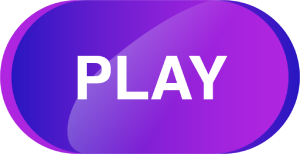
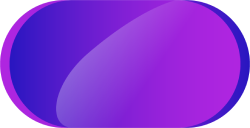
added title image and new font

diff --git a/gameplay/countdown.math.js b/gameplay/countdown.math.js
@@ -1,4 +1,4 @@
-import * as logic from "../logic/countdown.math.logic.js"
+import * as logic from '../logic/countdown.math.logic.js'
 
 // UPDATE GAME PLAY
 function generateMathProblem() {
@@ -7,20 +7,20 @@ function generateMathProblem() {
 
     let results = logic.getResults(valuesProblem, this.gamePlay.dificulty)
 
-    this.mathProblemTxt.setText(valuesProblem.value1 + valuesProblem.operator.symbol + valuesProblem.value2 + "= ?")
+    this.mathProblemTxt.setText(valuesProblem.value1 + valuesProblem.operator.symbol + valuesProblem.value2 + '= ?')
 
     const solutionRandomBtnIndex = Phaser.Math.Between(1, 4)
     let index = 0
     this.resultTxtGroup.children.each(function (child) {
-        if (solutionRandomBtnIndex === parseInt(child.name.split("-")[1])) {
+        if (solutionRandomBtnIndex === parseInt(child.name.split('-')[1])) {
             child.setText(results.solution)
-            // console.log(results.solution, "s")
+            // console.log(results.solution, 's')
         } else {
             child.setText(results.otherResultList[index])
             // console.log(results.otherResultList[index])
             index++
         }
-        // console.log(index, "-")
+        // console.log(index, '-')
     })
 
     this.gamePlay.mathProblemExist = true
@@ -34,24 +34,24 @@ function chooseSolution(solution) {
         let currentScore = parseInt(localStorage.getItem('score')) || 0
         if (this.gamePlay.score > currentScore) {
             localStorage.setItem('score', this.gamePlay.score)
-            this.add.bitmapText(this.width / 2, (this.height / 2) + 90, "atarismooth", "New Max Score: " + this.gamePlay.score, 25, 1).setOrigin(.5)
+            this.add.text(this.width / 2, (this.height / 2) + 90, 'New Max Score: ' + this.gamePlay.score, { fontFamily: 'Open Sans', fontSize: '25px' }).setOrigin(.5)
         }
         return false
     }
 }
 
 function lose() {
-    this.messageGameTxt.setTint("0xff0000")
-    this.messageGameTxt.setText("You lose!")
+    this.messageGameTxt.setTint('0xff0000')
+    this.messageGameTxt.setText('You lose!')
     this.gamePlay.gameOver = true
     this.resultBtnGroup.setVisible(false)
     this.resultTxtGroup.setVisible(false)
-    let mathProblemTxt = this.mathProblemTxt.text.replace("?", "")
+    let mathProblemTxt = this.mathProblemTxt.text.replace('?', '')
     this.mathProblemTxt.setText(mathProblemTxt + this.gamePlay.data.solution)
     this.time.addEvent({
         delay: 1000,
         callback: () => {
-            this.reloadBtn = this.add.image(this.width / 2, (this.height / 2) + 220, "reload").setOrigin(.5).setInteractive({ cursor: "pointer" })
+            this.reloadBtn = this.add.image(this.width / 2, (this.height / 2) + 220, 'reload').setOrigin(.5).setInteractive({ cursor: 'pointer' })
             this.pointerUp(() => {
                 this.registry.destroy()
                 this.events.off()

diff --git a/scenes/game.js b/scenes/game.js
@@ -9,15 +9,8 @@ import { ruleOfThree } from '../utils/common.js'
 export default class Game extends Phaser.Scene {
 
     // Vars
-    width = null
-    height = null
     handlerScene = false
     sceneStopped = false
-    dificulty = null
-    resultBtnGroup = null
-    resultTxtGroup = null
-    messageGameTxt = null
-    mathProblemTxt = null
 
     constructor() {
         super({ key: 'game' })
@@ -61,10 +54,10 @@ export default class Game extends Phaser.Scene {
         this.add.image(width / 2, height / 2, "background2").setOrigin(.5)
         this.resultTxtGroup = this.add.group()
         this.resultBtnGroup = this.add.group()
-        this.messageGameTxt = this.add.bitmapText(width / 2, height / 2, 'atarismooth', 'GET READY!', 50).setOrigin(.5)
-        this.mathProblemTxt = this.add.bitmapText(width / 2, (height / 4) + 60, 'atarismooth', '', 50).setOrigin(.5)
-        this.add.bitmapText(width / 2, 30, 'atarismooth', 'Score', 25).setOrigin(.5)
-        this.scoreTxt = this.add.bitmapText(width / 2, 60, 'atarismooth', '0', 28).setOrigin(.5)
+        this.messageGameTxt = this.add.text(width / 2, height / 2, 'GET READY!', { fontFamily: 'Open Sans', fontSize: '50px' }).setOrigin(.5)
+        this.mathProblemTxt = this.add.text(width / 2, (height / 4) + 60, '', { fontFamily: 'Open Sans', fontSize: '50px' }).setOrigin(.5)
+        this.add.text(width / 2, 30, 'Score', { fontFamily: 'Open Sans', fontSize: '25px' }).setOrigin(.5)
+        this.scoreTxt = this.add.text(width / 2, 60, '0', { fontFamily: 'Open Sans', fontSize: '28px' }).setOrigin(.5)
 
         this.barWBase = 320
         this.barTs = this.add.tileSprite(width / 4, 150, this.barWBase, 56, 'bar-countdown').setOrigin(0)
@@ -92,7 +85,7 @@ export default class Game extends Phaser.Scene {
             pointerOver(resultBtn)
             this.resultBtnGroup.add(resultBtn)
 
-            let resultTxt = this.add.bitmapText(posX + posXplus + (i % 2 ? -30 : 30), posY - posYplus, 'atarismooth', '', 40).setOrigin(.5)
+            let resultTxt = this.add.text(posX + posXplus + (i % 2 ? -30 : 30), posY - posYplus, '', { fontFamily: 'Open Sans', fontSize: '40px' }).setOrigin(.5)
             resultTxt.name = 'resultTxt-' + (i + 1)
             resultTxt.setTint(stringToHex(constant.color.GAME))
             resultTxt.visible = false

diff --git a/scenes/menu.js b/scenes/menu.js
@@ -5,8 +5,6 @@ import { pointerUp, pointerOver } from "../utils/buttons.js"
 export default class Menu extends Phaser.Scene {
 
     // Vars
-    width = null
-    height = null
     handlerScene = false
     sceneStopped = false
 
@@ -36,11 +34,11 @@ export default class Menu extends Phaser.Scene {
         this.add.image(width / 2, height / 2, "background2").setOrigin(.5)
         this.add.image(width / 2, height / 2, "background3").setOrigin(.5).alpha = .2
         let currentScore = parseInt(localStorage.getItem('score')) || 0
-        this.add.bitmapText(this.width / 2, 20, "atarismooth", "Max Score : " + currentScore, 18, 1).setOrigin(.5)
+        this.add.text(this.width / 2, 20, "Max Score : " + currentScore, { fontFamily: 'Open Sans', fontSize: '18px' }).setOrigin(.5)
 
         this.dificultyBtnGrp = this.add.group()
         this.dificultyTxtGrp = this.add.group()
-        this.gameTitleTxt = this.add.bitmapText(width / 2, height / 5, "atarismooth", "Choose a math\nchallenge", 30, 1).setOrigin(.5)
+        this.gameTitleTxt = this.add.text(width / 2, height / 5, "Choose a math\nchallenge", { fontFamily: 'Open Sans', fontSize: '30px' }).setOrigin(.5)
         this.countDownGameBtn = this.add.image(width / 2, height / 2, "button-square").setOrigin(.5).setInteractive({ cursor: "pointer" })
         this.countDownGame = this.add.image(width / 2, height / 2, "numbers").setOrigin(.5)
         this.countDownGame.setTint(stringToHex(constant.color.MENU))
@@ -72,7 +70,7 @@ export default class Menu extends Phaser.Scene {
                     dificultyBtn.setScale(1, .8)
                 this.dificultyBtnGrp.add(dificultyBtn)
 
-                let dificultyTxt = this.add.bitmapText(this.width / 2, posY, "atarismooth", configDificultyButtonList[i].text, 40).setOrigin(.5)
+                let dificultyTxt = this.add.text(this.width / 2, posY, configDificultyButtonList[i].text, { fontFamily: 'Open Sans', fontSize: '40px' }).setOrigin(.5)
                 dificultyTxt.setTint(stringToHex(constant.color.MENU))
                 this.dificultyTxtGrp.add(dificultyTxt)
                 posY += 150

diff --git a/scenes/preload.js b/scenes/preload.js
@@ -14,6 +14,7 @@ export default class Preload extends Phaser.Scene {
     preload() {
         // Images
         this.load.image('logo', 'assets/images/logo.png')
+        this.load.image('game-logo', 'assets/images/game-logo.png')
         this.load.image('guide', 'assets/images/960x540-guide.png')
         this.load.image('button', 'assets/images/button.png')
         this.load.image('button1', 'assets/images/button1.png')
@@ -29,8 +30,6 @@ export default class Preload extends Phaser.Scene {
         this.load.image('lock', 'assets/images/lock.png')
         // Sprite sheets
         this.load.spritesheet('rocket', 'assets/images/rocket.png', { frameWidth: 124, frameHeight: 200 });
-        // Fonts
-        this.load.bitmapFont('atarismooth', 'assets/fonts/atari-smooth.png', 'assets/fonts/atari-smooth.xml')
         //---------------------------------------------------------------------->
         this.canvasWidth = this.sys.game.canvas.width
         this.canvasHeight = this.sys.game.canvas.height
@@ -52,11 +51,6 @@ export default class Preload extends Phaser.Scene {
             progressBar.fillStyle(0xFF5758, 1)
             progressBar.fillRect((this.canvasWidth / 2) - (200 / 2), (this.canvasHeight / 2), 200 * value, 20)
         })
-
-        // this.load.on('fileprogress', (file) => {
-        //     if (file.key === 'logo')
-        //         this.rocket = this.add.image(this.canvasWidth / 2, (this.canvasHeight / 2) - 100, 'rocket').setOrigin(.5).setScale(.7)
-        // })
 
         this.load.on('complete', () => {
             progressBar.destroy()

diff --git a/scenes/title.js b/scenes/title.js
@@ -36,8 +36,9 @@ export default class Title extends Phaser.Scene {
         // BACKGROUND
         this.bgImage = this.add.image(width / 2, height / 2, 'background').setOrigin(.5)
         this.bgImage.alpha = .5
-        this.gameTitleTxt = this.add.bitmapText(width / 2, (height / 3) - 800, 'atarismooth', 'MATH\nATTACK', 55, 1).setOrigin(.5)
-        this.playBtn = this.add.image(this.width / 2, ((this.height / 2) + 200) - 800, 'button1').setOrigin(.5).setInteractive({ cursor: 'pointer' })
+        this.gameLogoImg = this.add.image(width / 2, (height / 3) - 800, 'game-logo').setOrigin(.5)
+        this.playBtn = this.add.image(width / 2, ((height / 2) + 200) - 800, 'button1').setOrigin(.5).setInteractive({ cursor: 'pointer' })
+        this.creditsTxt = this.add.text(width / 2, ((height / 2) + 200) - 800, 'PLAY', { fontFamily: 'Open Sans', fontSize: '50px' }).setOrigin(.5)
 
         this.pointerUp(() => {
             this.flashElement(this.playBtn, () => {
@@ -69,8 +70,9 @@ export default class Title extends Phaser.Scene {
     }
 
     update(t, dt) {
-        if (this.gameTitleTxt.y < (this.width / 3)) {
-            this.gameTitleTxt.y += dt * .3
+        if (this.gameLogoImg.y < (this.height / 3) - 50) {
+            this.gameLogoImg.y += dt * .3
+            this.creditsTxt.y += dt * .3
             this.playBtn.y += dt * .3
         } else {
             this.rocket.y -= dt * .7

diff --git a/scenes/hub.js b/scenes/hub.js
@@ -30,7 +30,7 @@ export default class Hub extends Phaser.Scene {
         this.pointerUp = pointerUp.bind(this)
         if (!this.game.embedded)
             fullScreen.call(this)
-        this.creditsTxt = this.add.text(this.canvasWidth / 2, this.canvasHeight - 22, 'Shimozurdo Games 2021', { fontFamily: 'Arial', fontSize: '18px', color: '#000', }).setOrigin(.5).setDepth(1)
+        this.creditsTxt = this.add.text(this.canvasWidth / 2, this.canvasHeight - 22, 'A game by Shimozurdo & Onda', { fontFamily: 'Open Sans', fontSize: '18px', color: '#000', }).setOrigin(.5).setDepth(1)
     }
 
     create() {
@@ -164,10 +164,6 @@ export default class Hub extends Phaser.Scene {
         this.soundBtn.x = this.scale.gameSize.width - 30
         this.creditsTxt.x = this.scale.gameSize.width / 2
         this.creditsTxt.y = this.scale.gameSize.height - 30
-    }
-
-    getZoom() {
-        return this.cameras.main.zoom
     }
 
 }

diff --git a/utils/buttons.js b/utils/buttons.js
@@ -1,8 +1,3 @@
-/**
- * Registers pointerover event from a game object
- * 
- * @param {GameObject} [gameObjet]
- */
 function pointerOver(gameObjet, hex = 0xEFF0F1) {
     gameObjet.on('pointerover', function () {
         this.setTint(hex);
@@ -10,23 +5,12 @@ function pointerOver(gameObjet, hex = 0xEFF0F1) {
     pointerOut(gameObjet);
 }
 
-/**
- * Registers pointerout event from a game object
- * 
- * @param {GameObject} [gameObjet]
- */
 function pointerOut(gameObjet) {
     gameObjet.on('pointerout', function () {
         this.clearTint();
     });
 }
 
-/**
- * Registers pointerup event from a game object and calls to the anonymous function sent it
- *
- * @param {*} [res=() => { }]
- * @param {*} gameObjet
- */
 function pointerUp(res = () => { }, gameObjet) {
     gameObjet.on('pointerup', () => {
         res();

diff --git a/main.js b/main.js
@@ -8,7 +8,7 @@ import Game from './scenes/game.js'
 // Aspect Ratio 16:9 - Portrait
 const MAX_SIZE_WIDTH_SCREEN = 1920
 const MAX_SIZE_HEIGHT_SCREEN = 1080
-const MIN_SIZE_WIDTH_SCREEN = 320
+const MIN_SIZE_WIDTH_SCREEN = 270
 const MIN_SIZE_HEIGHT_SCREEN = 480
 const SIZE_WIDTH_SCREEN = 540
 const SIZE_HEIGHT_SCREEN = 960
@@ -32,7 +32,7 @@ const config = {
     dom: {
         createContainer: true
     },
-    scene: [Handler, Preload, Title, Hub, Menu, Game]
+    scene: [Handler, Hub, Preload, Title, Menu, Game]
 }
 
 const game = new Phaser.Game(config)
@@ -52,6 +52,7 @@ game.screenBaseSize = {
     width: SIZE_WIDTH_SCREEN,
     height: SIZE_HEIGHT_SCREEN
 }
+
 game.orientation = "portrait"
 
 

diff --git a/index.html b/index.html
@@ -5,6 +5,7 @@
     <meta charset="utf-8">
     <meta http-equiv="X-UA-Compatible" content="chrome=1">
     <meta name="viewport" content="width=device-width, initial-scale=1.0">
+    <link href="https://fonts.googleapis.com/css2?family=Open+Sans:wght@600;800&display=swap" rel="stylesheet">
     <link rel="icon" href="favicon.ico" />
     <style>
         * {
@@ -16,6 +17,7 @@
         body {
             background: #000;
             overflow: hidden;
+            font-family: 'Open Sans', sans-serif;
         }
     </style>
     <title>Math Attack</title>
